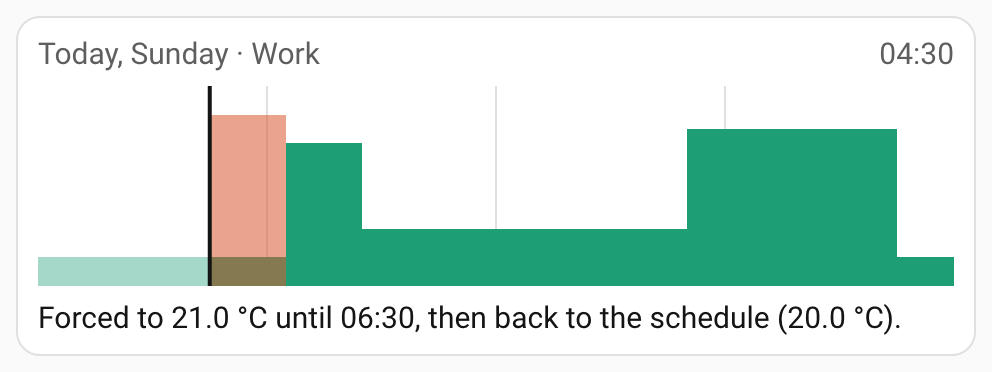
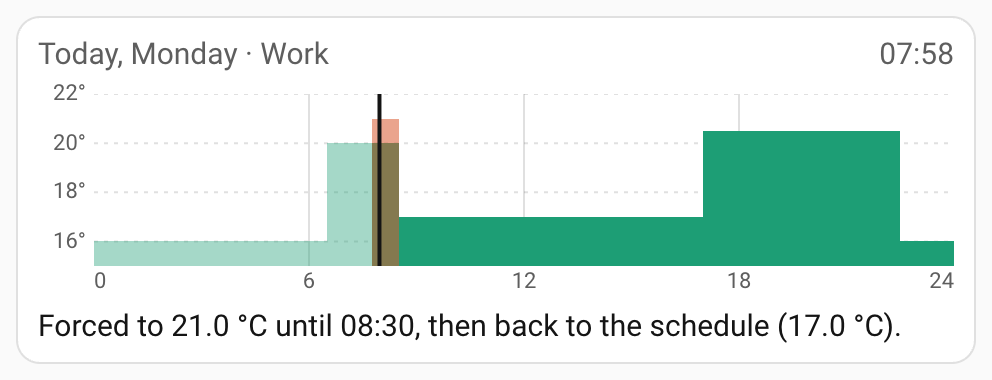
docs: viewer axes and fixed range, refreshed screenshots

diff --git a/README.md b/README.md
@@ -143,8 +143,9 @@ the default). After installing or updating, reload the browser page. For dashboa
 in YAML mode see the [FAQ](#faq).
 
 All three cards can be added from the dashboard editor (search for
-"Chronothermostat") and have a visual editor: the zone for the viewer, the zone and
-the optional name for the editor, the optional name for the scenario card.
+"Chronothermostat") and have a visual editor: the zone, the axes and the chart height
+for the viewer, the zone and the optional name for the editor, the optional name for
+the scenario card.
 
 A typical setup: an everyday view with the scenario card at the top and, for each
 zone, the standard `thermostat` card followed by the viewer card; a separate view
@@ -195,9 +196,9 @@ name: Heating   # optional, replaces the "House scenario" label
 ### Viewer card
 
 `custom:chronothermostat-viewer-card` — one per zone, placed under the zone's
-thermostat card. It shows today's program for the active scenario (past quarter
-hours dimmed, a line at the current time, a band for a forced setpoint up to the next
-step) and one sentence:
+thermostat card. It shows today's program for the active scenario (temperature and
+hour labels, past quarter hours dimmed, a line at the current time, a band for a
+forced setpoint up to the next step) and one sentence:
 
 | Zone status | Sentence |
 |---|---|
@@ -224,6 +225,25 @@ entity: climate.office
 |---|---|---|
 | `entity` | yes | The zone's `climate` entity. |
 | `name` | no | Accepted in YAML but not displayed (the zone is the one of the thermostat card above). |
+| `show_temperature_axis` | no | Temperature labels on the left, with dashed reference lines. Default `true`. |
+| `show_time_axis` | no | Hour labels (0, 6, 12, 18, 24) below the chart. Default `true`. |
+| `scale` | no | Chart height: `auto` (default) spans one degree below the day's lowest value to one degree above its highest, at least five degrees; `fixed` uses `scale_min`–`scale_max`. |
+| `scale_min`, `scale_max` | with `scale: fixed` | Bottom and top of the chart in °C; `scale_min` must be lower than `scale_max`. Values outside the range are drawn at the edge. |
+
+All of them are in the card's visual editor. There the fixed range is limited to what
+the zone's thermostat allows (its `min_temp`–`max_temp`, or 5–30 °C when it does not
+report them): a value outside it, or a top not above the bottom, is refused with a
+message and the card keeps its last valid configuration.
+
+```yaml
+type: custom:chronothermostat-viewer-card
+entity: climate.office
+scale: fixed
+scale_min: 10
+scale_max: 25
+```
+
+<img src="docs/img/viewer-fixed.png" alt="Viewer card with a fixed 10–25 °C range" width="480">
 
 The viewer reads only the zone's status sensor and its `climate` entity. A short
 unavailable blip of the thermostat (some wall thermostats have one after every
@@ -407,7 +427,7 @@ add. Add the bundle as a module resource, with the installed version (from
 lovelace:
   mode: yaml
   resources:
-    - url: /chronothermostat/chronothermostat-cards.js?v=0.1.0
+    - url: /chronothermostat/chronothermostat-cards.js?v=0.2.0
       type: module
 ```
 
